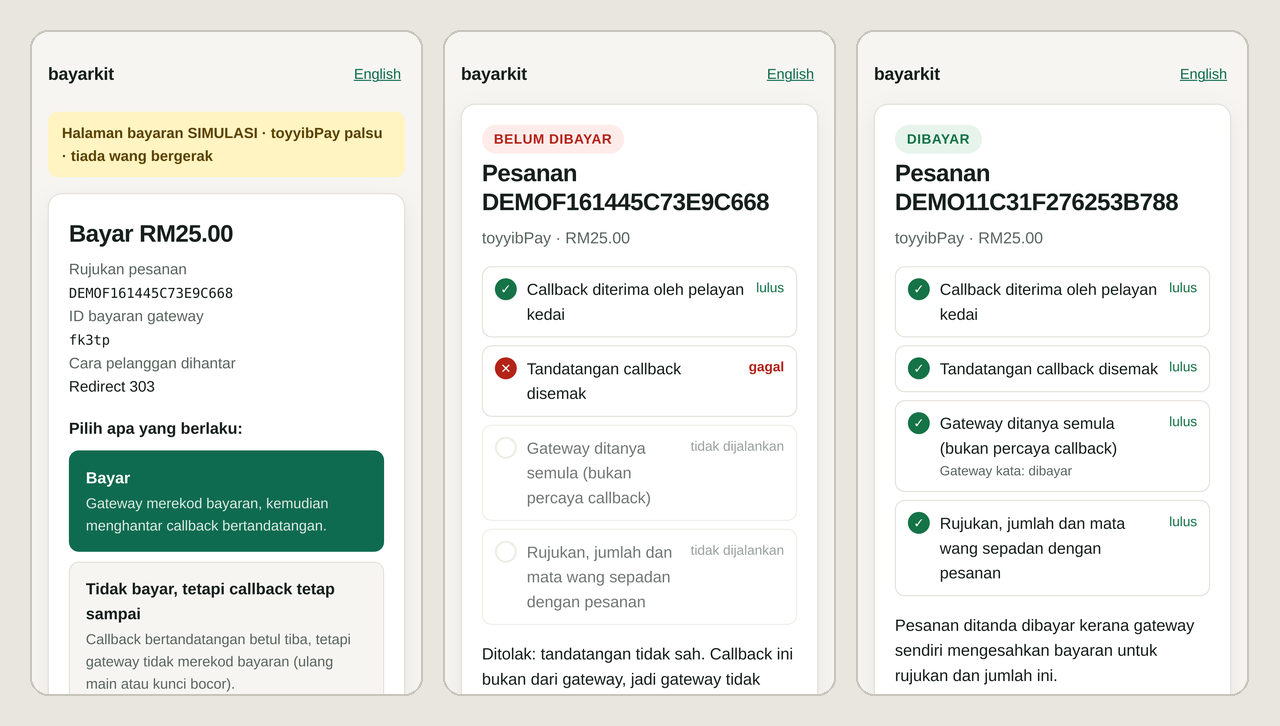
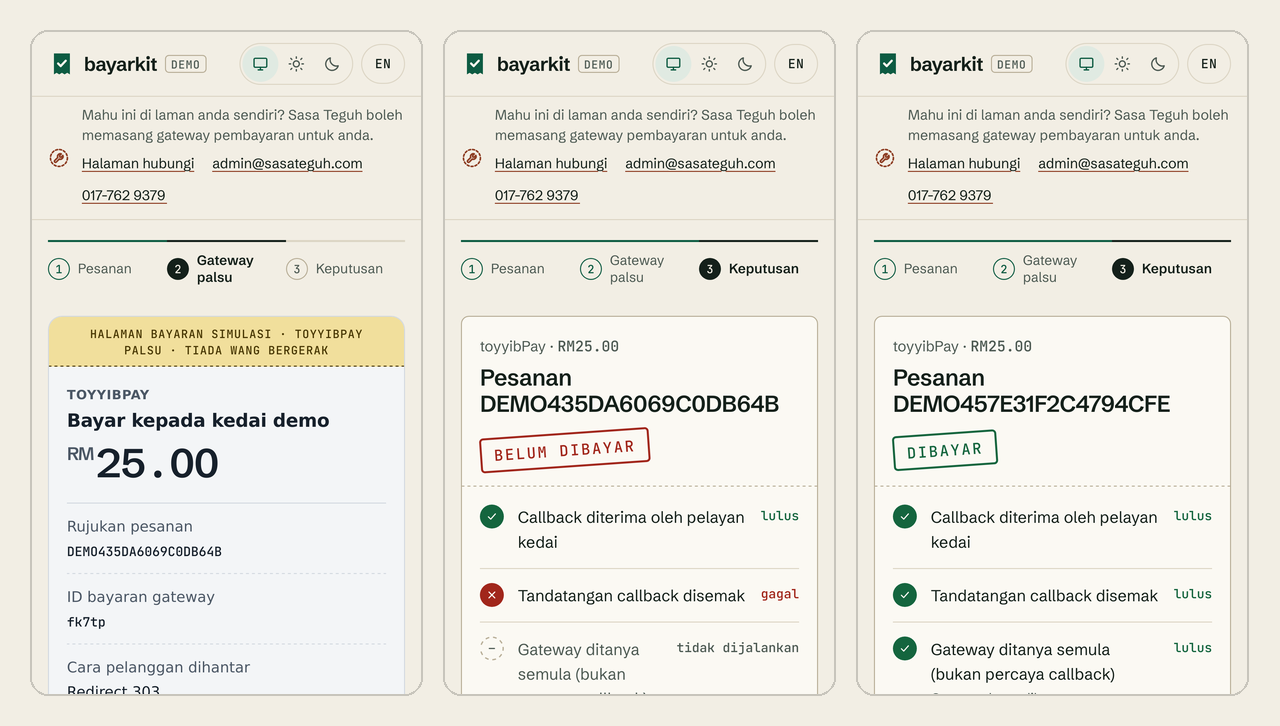
demo: browser proof at 1440 px, the theme switch and the offer seal; README pictures regenerated
scripts/demo-webkit.py now also checks, on every page it visits: the install offer is
present with exactly three contact links, is not fixed/sticky/absolute, and does not
overlap a button, a form or the simulated gateway panel. On the phone it scrolls home
to the bottom and waits 8 s for a WebKit crash, and flips the theme with the header
link (a 303 back to the same page) and back to "system". A 1440 px desktop pass runs
home, pay, paid and 404 in both themes and both languages.

scripts/demo-shot.py waits for the stamp animation before each picture and paints
the canvas in the demo's own paper colour; docs/demo/*.png regenerated, alt text
mentions the offer line (EN = BM).

diff --git a/scripts/demo-webkit.py b/scripts/demo-webkit.py
@@ -1,6 +1,10 @@
 #!/usr/bin/env python3
-# The demo on WebKit iPhone 13, light + dark, BM + EN: no horizontal scroll, tap targets >= 24 px, no console errors,
-# the four scenarios (forged / paid / another order's callback / unpaid) end in the right state, and 404 is a branded page.
+# The demo on WebKit: iPhone 13 and a 1440 px desktop, light + dark, BM + EN.
+#   every page: no horizontal scroll, no console errors, the Sasa Teguh seal present (three contact links, in the flow
+#   of the page, not over any button, form or the simulated gateway panel);
+#   phone: the four scenarios (forged / paid / another order's callback / unpaid) end in the right state, 404 is a
+#   branded page, tap targets >= 24 px, the theme switch (a link + cookie, no JavaScript) changes the page and back,
+#   and the page has not crashed 8 s after loading (WebKit crashes on animated filters a few seconds in).
 # Needs `npm run demo` running and Python Playwright with WebKit.
 # Not part of the gate (CI runners have no WebKit); run it after any change to examples/demo.
 #   python3 scripts/demo-webkit.py <screenshot dir> [base url]
@@ -9,74 +13,153 @@ from playwright.sync_api import sync_playwright
 out = sys.argv[1]
 base = sys.argv[2] if len(sys.argv) > 2 else 'http://127.0.0.1:4317'
 problems = []
+
+# The seal's box against everything it must never cover; also how it is positioned and how many links it carries.
+SEAL = """() => {
+  const s = document.querySelector('.seal')
+  if (!s) return {missing: true}
+  const r = s.getBoundingClientRect(), pos = getComputedStyle(s).position
+  const hit = [...document.querySelectorAll('main button, main form, main input, main select, .gw, .help a, header a')]
+    .filter(e => { const b = e.getBoundingClientRect()
+      return b.width > 0 && b.left < r.right && b.right > r.left && b.top < r.bottom && b.bottom > r.top })
+    .map(e => e.outerHTML.slice(0, 50))
+  return {pos, links: s.querySelectorAll('a').length, hit}
+}"""
+
+
+def page_checks(pg, tag, name, wait=800):
+    w = pg.evaluate('[document.documentElement.scrollWidth, window.innerWidth]')
+    if w[0] > w[1]: problems.append(f'{tag} {name}: scrollWidth {w[0]} > {w[1]}')
+    s = pg.evaluate(SEAL)
+    if s.get('missing'): problems.append(f'{tag} {name}: no seal')
+    else:
+        if s['pos'] in ('fixed', 'sticky', 'absolute'): problems.append(f'{tag} {name}: seal is position:{s["pos"]}')
+        if s['links'] != 3: problems.append(f'{tag} {name}: seal has {s["links"]} links, not 3')
+        if s['hit']: problems.append(f'{tag} {name}: seal overlaps {s["hit"]}')
+    pg.wait_for_timeout(wait)  # the arrival animation (checks, stamp) settles before the picture
+    pg.screenshot(path=f'{out}/{tag.replace("/", "-")}-{name}.png', full_page=True)
+
+
+def watch(pg, errors, crashed):
+    # Playwright's screenshot injects an inline style (caret hiding) that the page's CSP correctly refuses; measured
+    # 23 Oct 2026: 0 errors before the first screenshot, 1 per screenshot after. That one message is not the page's.
+    pg.on('console', lambda m: errors.append(m.text) if m.type == 'error' and 'Refused to apply a stylesheet' not in m.text else None)
+    pg.on('crash', lambda *_: crashed.append(1))
+
+
+def start(pg, prefix, gateway, amount=None):
+    pg.goto(base + prefix + '/')
+    pg.select_option('#gateway', gateway)
+    if amount: pg.fill('#amount', amount)
+    pg.click('form button[type=submit]')
+    pg.wait_for_url('**/pay/**')
+
+
 with sync_playwright() as p:
     b = p.webkit.launch()
     for scheme in ['light', 'dark']:
         ctx = b.new_context(**p.devices['iPhone 13'], color_scheme=scheme)
         pg = ctx.new_page()
-        errors = []
-        # Playwright's screenshot injects an inline style (caret hiding) that the page's CSP correctly refuses; measured
-        # 23 Oct 2026: 0 errors before the first screenshot, 1 per screenshot after. That one message is not the page's.
-        pg.on('console', lambda m: errors.append(m.text) if m.type == 'error' and 'Refused to apply a stylesheet' not in m.text else None)
+        errors, crashed = [], []
+        watch(pg, errors, crashed)
         for prefix in ['', '/en']:
+            tag = f'{scheme}{prefix}'
             pg.goto(base + prefix + '/')
+            # crash sweep: scroll to the bottom, then wait 8 s on the page before anything else
+            pg.evaluate('window.scrollTo(0, document.documentElement.scrollHeight)')
+            pg.wait_for_timeout(8000)
+            if crashed: problems.append(f'{tag}: WebKit crashed within 8 s of loading home'); break
+            pg.evaluate('window.scrollTo(0, 0)')
             pg.select_option('#gateway', 'ipay88')
             pg.fill('#amount', '12.30')
-            def check(name):
-                w = pg.evaluate('[document.documentElement.scrollWidth, window.innerWidth]')
-                if w[0] > w[1]: problems.append(f'{scheme}{prefix} {name}: scrollWidth {w[0]} > {w[1]}')
-                pg.wait_for_timeout(800)  # the arrival animation (checks, stamp) settles before the picture
-                pg.screenshot(path=f'{out}/{scheme}{prefix.replace("/","-")}-{name}.png', full_page=True)
-            check('home')
+            page_checks(pg, tag, 'home')
             pg.click('form button[type=submit]')
             pg.wait_for_url('**/pay/**')
-            check('pay')
+            page_checks(pg, tag, 'pay')
             pg.click('button.choice.forge')
             pg.wait_for_url('**/order/**')
-            check('order-forged')
+            page_checks(pg, tag, 'order-forged')
             assert pg.locator('.status.notPaid').count() == 1
             # all four checks on the page, the two that did not run included (a stray rule once moved them off screen)
             on_page = pg.evaluate("[...document.querySelectorAll('.step')].filter(e=>{const r=e.getBoundingClientRect();return r.height>0&&r.left>=0&&r.top+scrollY>=0}).length")
-            if on_page != 4: problems.append(f'{scheme}{prefix} order-forged: {on_page} of 4 checks on the page')
+            if on_page != 4: problems.append(f'{tag} order-forged: {on_page} of 4 checks on the page')
             pg.click('a.button')
             pg.select_option('#gateway', 'chip')
             pg.click('form button[type=submit]')
             pg.click('button.choice.pay')
             pg.wait_for_url('**/order/**')
             assert pg.locator('.status.paid').count() == 1
-            check('order-paid')
+            page_checks(pg, tag, 'order-paid')
             # another order's paid callback: refused at the third check (reference + amount)
             pg.click('a.button')
             pg.select_option('#gateway', 'billplz')
             pg.click('form button[type=submit]')
             pg.wait_for_url('**/pay/**')
-            check('pay-four-choices')
+            page_checks(pg, tag, 'pay-four-choices')
             pg.click('button.choice.swap')
             pg.wait_for_url('**/order/**')
             assert pg.locator('.status.notPaid').count() == 1 and pg.locator('.step.fail').count() == 1
-            check('order-swapped')
+            page_checks(pg, tag, 'order-swapped')
             # a signed callback for an unpaid payment: refused at the third check (the gateway says not paid)
             pg.click('a.button')
-            pg.select_option('#gateway', 'toyyibpay')
-            pg.click('form button[type=submit]')
-            pg.wait_for_url('**/pay/**')
+            start(pg, prefix, 'toyyibpay')
             pg.click('button.choice.decline')
             pg.wait_for_url('**/order/**')
             assert pg.locator('.status.notPaid').count() == 1
-            check('order-declined')
+            page_checks(pg, tag, 'order-declined')
             # a missing page is a branded 404 with a way back
             seen = len(errors)
             pg.goto(base + prefix + '/order/NOPE')
             assert pg.locator('.oops a.button').count() == 1
-            check('not-found')
+            page_checks(pg, tag, 'not-found')
             # WebKit logs the document's own 404 status as an error; that one is expected here, nothing else is.
             errors[seen:] = [e for e in errors[seen:] if 'status of 404' not in e]
             # tap targets
             small = pg.evaluate("[...document.querySelectorAll('a,button,select,input')].filter(e=>{const r=e.getBoundingClientRect();return r.width>0&&r.height<24}).map(e=>e.outerHTML.slice(0,60))")
-            if small: problems.append(f'{scheme}{prefix} small targets: {small}')
+            if small: problems.append(f'{tag} small targets: {small}')
+            # the theme switch: pick the other theme (after scrolling, as a visitor would), the page follows and comes
+            # back to the same path; "system" clears the choice again
+            other = 'dark' if scheme == 'light' else 'light'
+            pg.goto(base + prefix + '/')
+            bg = lambda: pg.evaluate('getComputedStyle(document.documentElement).backgroundColor')
+            before = bg()
+            pg.evaluate('window.scrollTo(0, 200)')
+            with pg.expect_navigation():  # a 303 back to this page: wait for the new document, not the old one
+                pg.click(f'.theme a[href*="set={other}"]')
+            if pg.evaluate('document.documentElement.dataset.theme') != other or bg() == before or not pg.url.rstrip('/').endswith(base.split('//')[1] + prefix):
+                problems.append(f'{tag} theme switch to {other}: theme={pg.evaluate("document.documentElement.dataset.theme")} url={pg.url}')
+            page_checks(pg, f'{tag}-switched', 'home')
+            with pg.expect_navigation():
+                pg.click('.theme a[href*="set=system"]')
+            if pg.evaluate('document.documentElement.dataset.theme') != 'system' or bg() != before:
+                problems.append(f'{tag} theme back to system did not restore the page')
+        if crashed: problems.append(f'{scheme}: WebKit crashed')
         if errors: problems.append(f'{scheme} console errors: {errors}')
         ctx.close()
+    # desktop: the same pages at 1440 px, the seal still a line in the page and never over the gateway panel
+    for scheme in ['light', 'dark']:
+        ctx = b.new_context(viewport={'width': 1440, 'height': 900}, color_scheme=scheme)
+        pg = ctx.new_page()
+        errors, crashed = [], []
+        watch(pg, errors, crashed)
+        for prefix in ['', '/en']:
+            tag = f'desktop-{scheme}{prefix}'
+            pg.goto(base + prefix + '/')
+            page_checks(pg, tag, 'home')
+            start(pg, prefix, 'toyyibpay', '25.00')
+            page_checks(pg, tag, 'pay')
+            pg.click('button.choice.pay')
+            pg.wait_for_url('**/order/**')
+            assert pg.locator('.status.paid').count() == 1
+            page_checks(pg, tag, 'order-paid')
+            seen = len(errors)
+            pg.goto(base + prefix + '/order/NOPE')
+            page_checks(pg, tag, 'not-found')
+            errors[seen:] = [e for e in errors[seen:] if 'status of 404' not in e]
+        if crashed: problems.append(f'desktop {scheme}: WebKit crashed')
+        if errors: problems.append(f'desktop {scheme} console errors: {errors}')
+        ctx.close()
     b.close()
-print('PROBLEMS:' if problems else 'OK: no overflow, no console errors, flows pass (light+dark, BM+EN)')
+print('PROBLEMS:' if problems else 'OK: no overflow, no console errors, no crash in 8 s, seal in place, theme switch, flows pass (iPhone 13 + 1440 px, light+dark, BM+EN)')
 for x in problems: print(' ', x)
 sys.exit(1 if problems else 0)

diff --git a/scripts/demo-shot.py b/scripts/demo-shot.py
@@ -15,6 +15,7 @@ docs = Path(__file__).resolve().parent.parent / 'docs' / 'demo'
 
 
 def shot(pg):
+    pg.wait_for_timeout(1000)  # the stamp and the checks arrive animated; take the picture once they have settled
     return Image.open(io.BytesIO(pg.screenshot(full_page=False)))
 
 
@@ -48,7 +49,7 @@ def render(lang_prefix, out):
   phone_w = (width - 2 * pad - 2 * gap) // 3
   phones = [s.resize((phone_w, round(s.height * phone_w / s.width)), Image.LANCZOS) for s in shots]
   height = max(ph.height for ph in phones) + 2 * pad
-  canvas = Image.new('RGB', (width, height), (232, 230, 223))
+  canvas = Image.new("RGB", (width, height), (242, 238, 228))  # the demo's own paper (--paper, light)
   draw = ImageDraw.Draw(canvas)
   for i, ph in enumerate(phones):
       x = pad + i * (phone_w + gap)

diff --git a/README.ms.md b/README.ms.md
@@ -274,7 +274,7 @@ daripada pesanan lain yang lebih murah) dan lihat setiap semakan yang dibuat `co
 Setiap gateway ialah gateway palsu daripada `@bayarkit/testing`, jadi tiada kunci dan tiada wang terlibat. Sumber:
 [examples/demo](examples/demo/app.mjs).
 
-![Demo pada iPhone: halaman bayaran toyyibPay simulasi; callback dipalsukan ditolak pada semakan tandatangan, jadi gateway tidak ditanya pun; bayaran sebenar disahkan selepas gateway sendiri kata dibayar](docs/demo/demo.ms.png)
+![Demo pada iPhone: halaman bayaran toyyibPay simulasi; callback dipalsukan ditolak pada semakan tandatangan, jadi gateway tidak ditanya pun; bayaran sebenar disahkan selepas gateway sendiri kata dibayar; di atas setiap halaman, satu baris tawaran pemasangan oleh Sasa Teguh](docs/demo/demo.ms.png)
 
 <sub>Dijana semula daripada demo yang berjalan oleh `python3 scripts/demo-shot.py` (WebKit, iPhone 13).</sub>
 

diff --git a/README.md b/README.md
@@ -265,7 +265,7 @@ signed callback for an unpaid payment; a forged callback; or the paid callback o
 check `confirmPayment` makes. Every gateway is a fake from `@bayarkit/testing`, so no keys and
 no money are involved. Source: [examples/demo](examples/demo/app.mjs).
 
-![The demo on an iPhone: a simulated toyyibPay payment page; a forged callback refused at the signature check, so the gateway is never asked; a real payment confirmed after the gateway itself says paid](docs/demo/demo.png)
+![The demo on an iPhone: a simulated toyyibPay payment page; a forged callback refused at the signature check, so the gateway is never asked; a real payment confirmed after the gateway itself says paid; above each page, a line offering installation by Sasa Teguh](docs/demo/demo.png)
 
 <sub>Regenerated from the running demo by `python3 scripts/demo-shot.py` (WebKit, iPhone 13).</sub>
 

diff --git a/CHANGELOG.md b/CHANGELOG.md
@@ -42,6 +42,9 @@ All notable changes to this project are documented here. The format follows
 - Demo: a new look in light and dark themes (switched with a link, no JavaScript) and self-hosted fonts. The
   simulated payment page is drawn as a taped "fake gateway" panel apart from the demo, each check on the order page
   shows a drawn mark and its state in words, and 404 / 503 are pages with a way back.
+- `scripts/demo-webkit.py` also checks the demo at 1440 px, the theme switch, that the install offer stays in the flow
+  of every page without covering a button, form or the simulated gateway, and that WebKit has not crashed 8 s after
+  loading. The README pictures (`docs/demo/`) show the new look.
 
 ### Fixed
 
